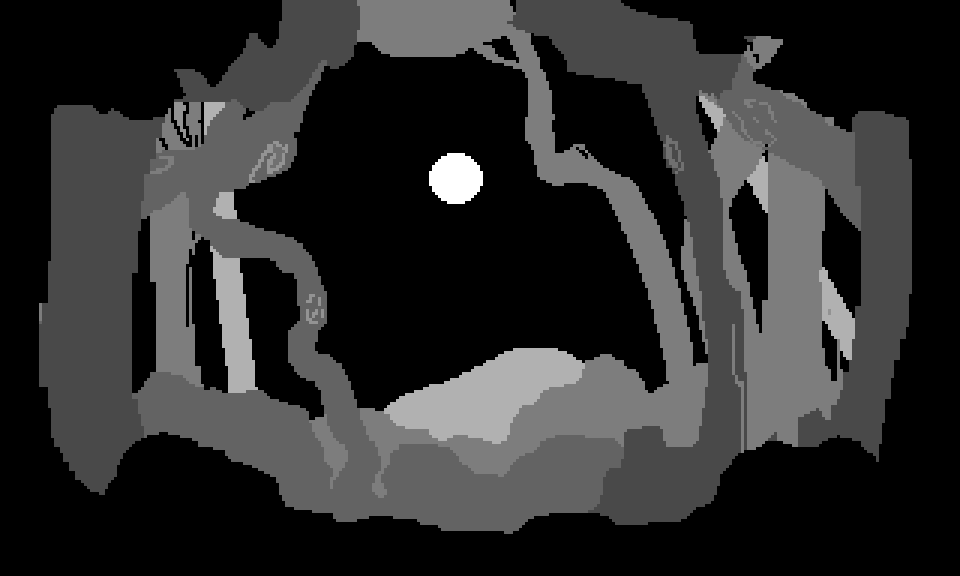
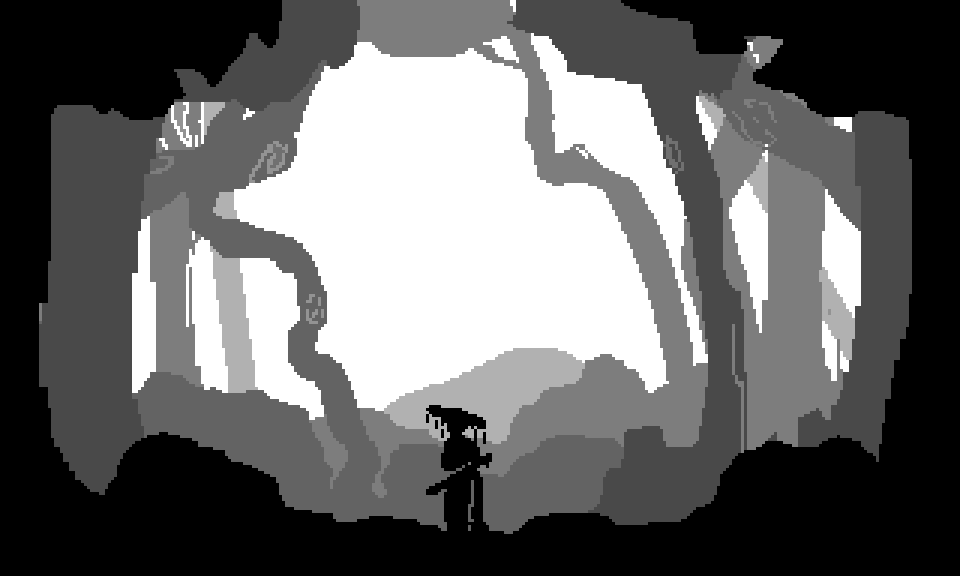
MoonAttacked class, few revision

diff --git a/main.py b/main.py
@@ -5,7 +5,7 @@ from pygame.locals import *
 from image_load import *
 
 #죽었을때 애니메이션 추가, 코드 수정 -> 적 클래스 여러개 만들기/ 렉 해결안됨 -> 렉해결( 이미지 미리 불러오기 )
-#플레이어 생명력은 3칸, 공격 받을 때마다 공격받는 이펙트와 함께 생명력 깎기
+#플레이어 생명력은 3칸, 공격 받을 때마다 달 부서지기
 
 # 2 - Initialize the game   
 pygame.init()
@@ -297,6 +297,35 @@ class PlayerAttack(pygame.sprite.Sprite):
         if self.index >= len(self.images[self.att_dir_top]):
             #we will make the index to 0 again
             player_att_group.remove(self)
+            return
+        #if self.index >= 3:#두 틱만 공격 활성화
+            
+            #player_att_on_dir = -1
+        #finally we will update the image that will be displayed
+        # self.image = self.images[self.fixed_dir][self.index] # 함수 밖의 fixed_dir값을 참조함 씨발. 클래스 내에 고정 값 못만드나??
+        self.image = pygame.transform.flip(self.images[self.att_dir_top][self.index].convert_alpha(),self.att_dir_bool,False)
+
+class MoonAttacked(pygame.sprite.Sprite):
+    def __init__(self,dir):
+        super(MoonAttacked(dir), self).__init__()
+        #adding all the images to sprite array
+        self.images = player_att_images #image flip으로 수정하기;;
+        #index value to get the image from the array
+        #initially it is 0 
+        self.index = 0
+        #now the image that we will display will be the index from the image array 
+        self.image = pygame.transform.flip(self.images[self.att_dir_top][0].convert_alpha(),self.att_dir_bool,False)
+
+        #creating a rect at position x,y (5,5) of size (150,198) which is the size of sprite 
+        self.rect = pygame.Rect(0, 0, 960, 576)
+        
+        
+
+    def update(self):
+        
+        if self.index >= len(self.images[self.att_dir_top]):
+            #we will make the index to 0 again
+            player_att_group.remove(self) # 피격 에니도 걍 att_group에 넣자 ㄱㅊ
             return
         #if self.index >= 3:#두 틱만 공격 활성화
             
